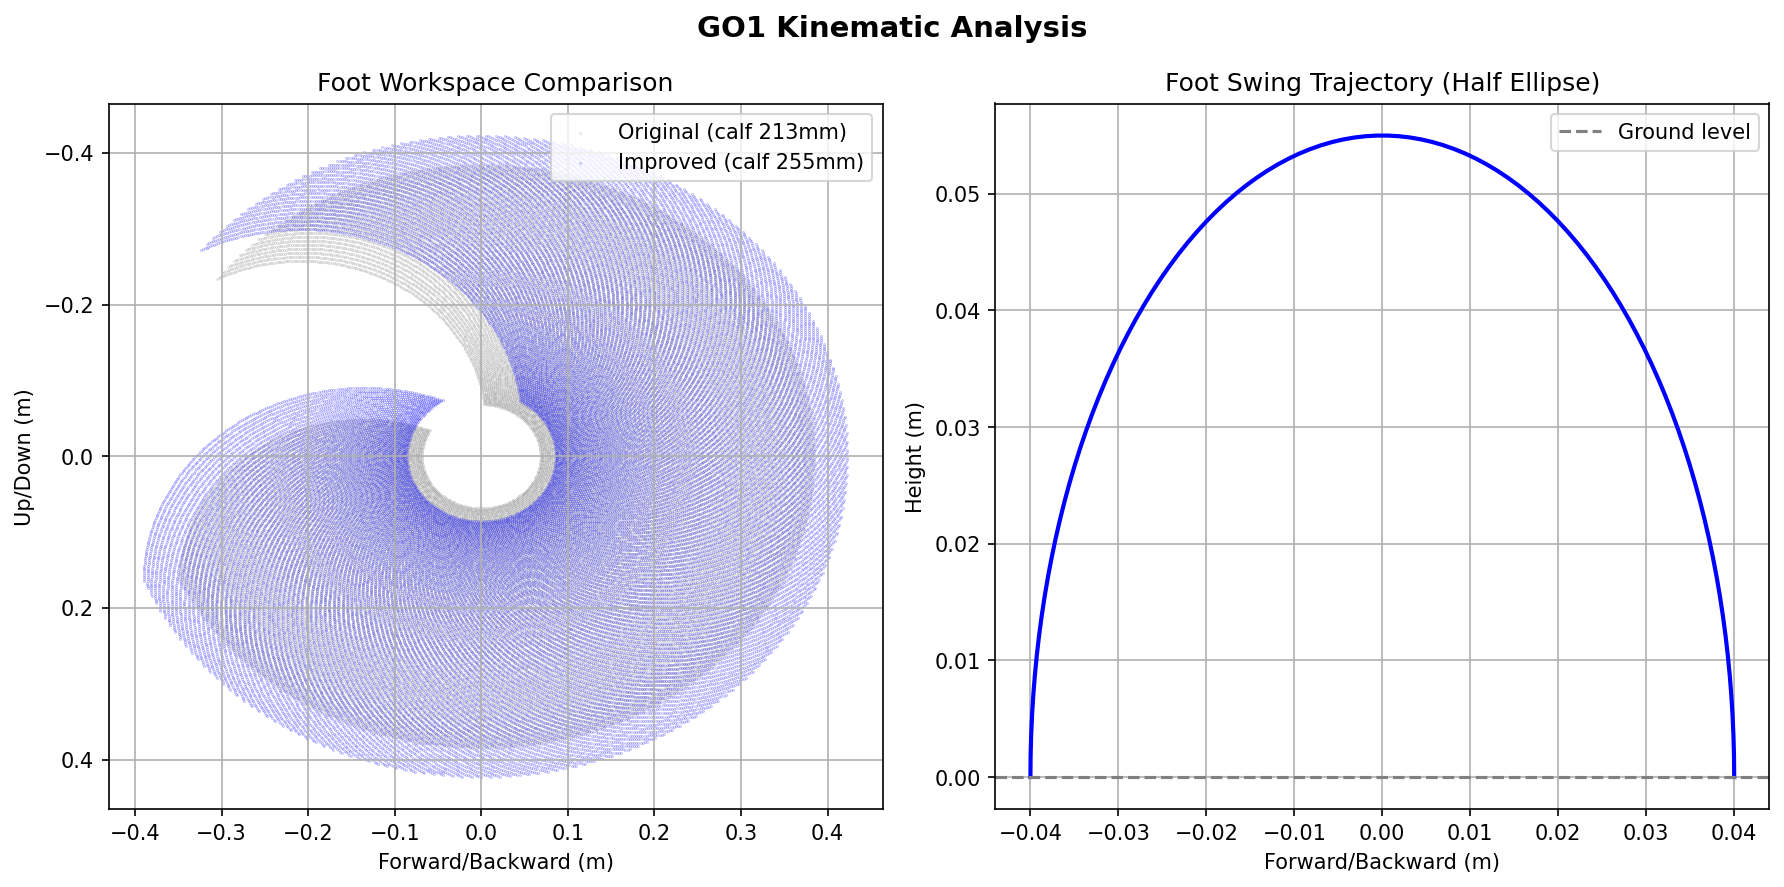
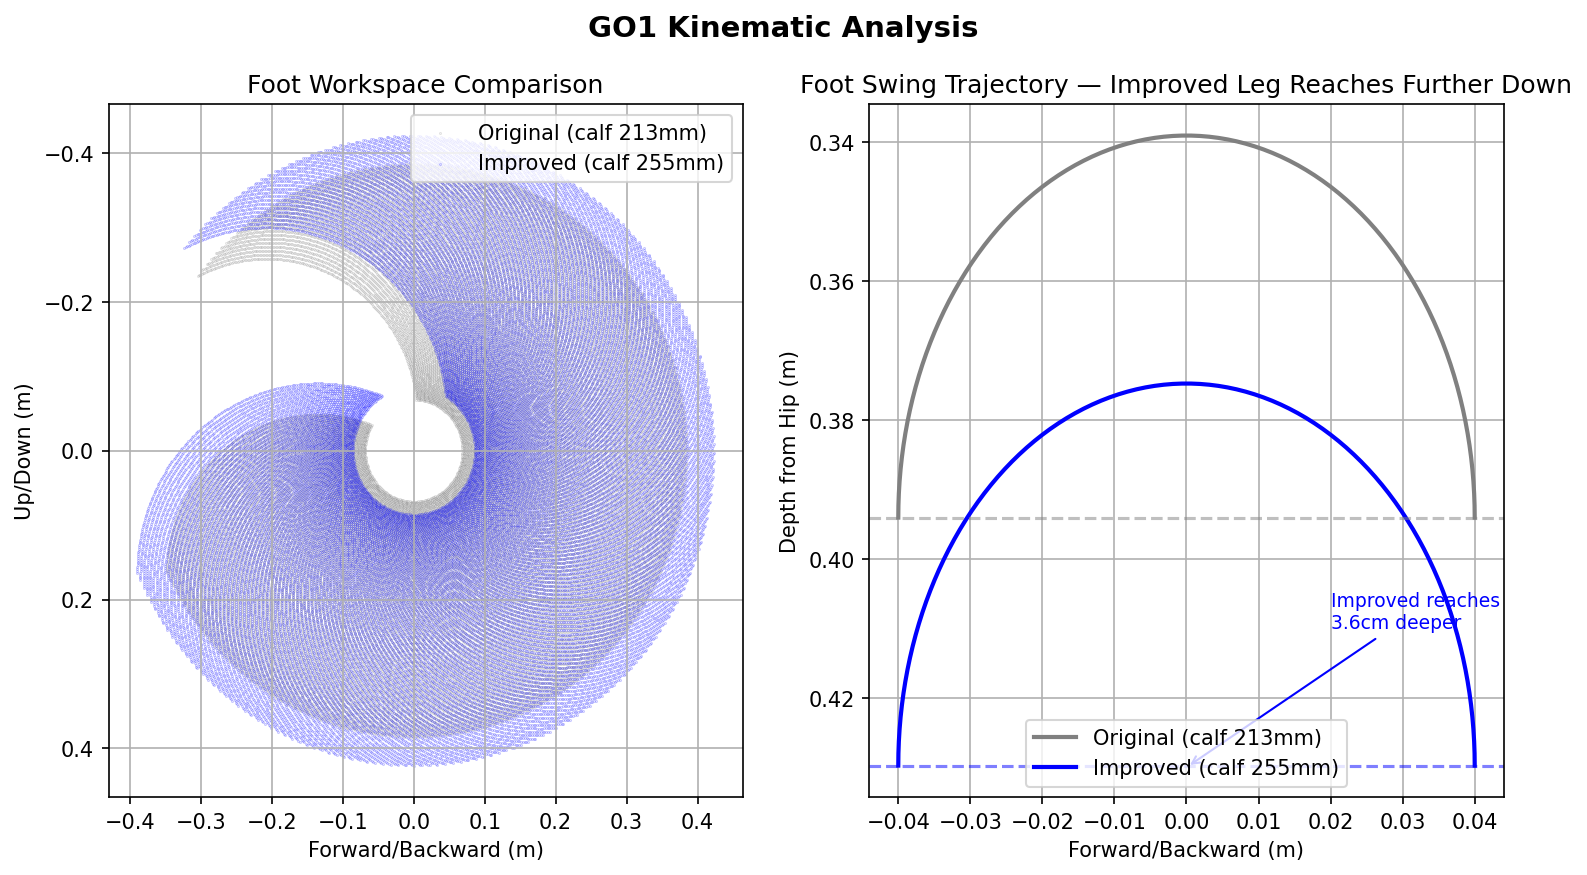
Day 4: Update visualization — trajectory comparison with annotation

Changed region(s): [[0.0, 0.0617, 1.0, 0.9874], [0.3705, 0.0, 0.6175, 0.0617]]

diff --git a/learning/learn_visualize.py b/learning/learn_visualize.py
@@ -54,17 +54,28 @@ ax1.legend()
 ax1.grid(True)
 ax1.invert_yaxis()
 
-# RIGHT PLOT — Foot trajectory
+# RIGHT PLOT — Foot trajectory comparison
 x_traj, z_traj = compute_trajectory()
-ax2.plot(x_traj, z_traj, color='blue', linewidth=2)
-ax2.axhline(y=0, color='grey', linestyle='--', label='Ground level')
-ax2.set_title("Foot Swing Trajectory (Half Ellipse)")
+
+ground_orig = 0.213 + 0.213 * 0.85
+ground_impr = 0.213 + 0.255 * 0.85
+
+ax2.plot(x_traj, [ground_orig - z for z in z_traj],
+         color='grey', linewidth=2, label='Original (calf 213mm)')
+ax2.plot(x_traj, [ground_impr - z for z in z_traj],
+         color='blue', linewidth=2, label='Improved (calf 255mm)')
+ax2.axhline(y=ground_orig, color='grey', linestyle='--', alpha=0.5)
+ax2.axhline(y=ground_impr, color='blue', linestyle='--', alpha=0.5)
+ax2.set_title("Foot Swing Trajectory — Improved Leg Reaches Further Down")
 ax2.set_xlabel("Forward/Backward (m)")
-ax2.set_ylabel("Height (m)")
+ax2.set_ylabel("Depth from Hip (m)")
 ax2.legend()
 ax2.grid(True)
+ax2.invert_yaxis()
 
-plt.tight_layout()
+ax2.annotate('Improved reaches\n3.6cm deeper', xy=(0, 0.430), 
+             xytext=(0.02, 0.41), color='blue', fontsize=9,
+             arrowprops=dict(arrowstyle='->', color='blue'))
 
 plt.savefig('results/workspace_comparison.png', dpi=150, bbox_inches='tight')
 print("Saved to results/workspace_comparison.png")